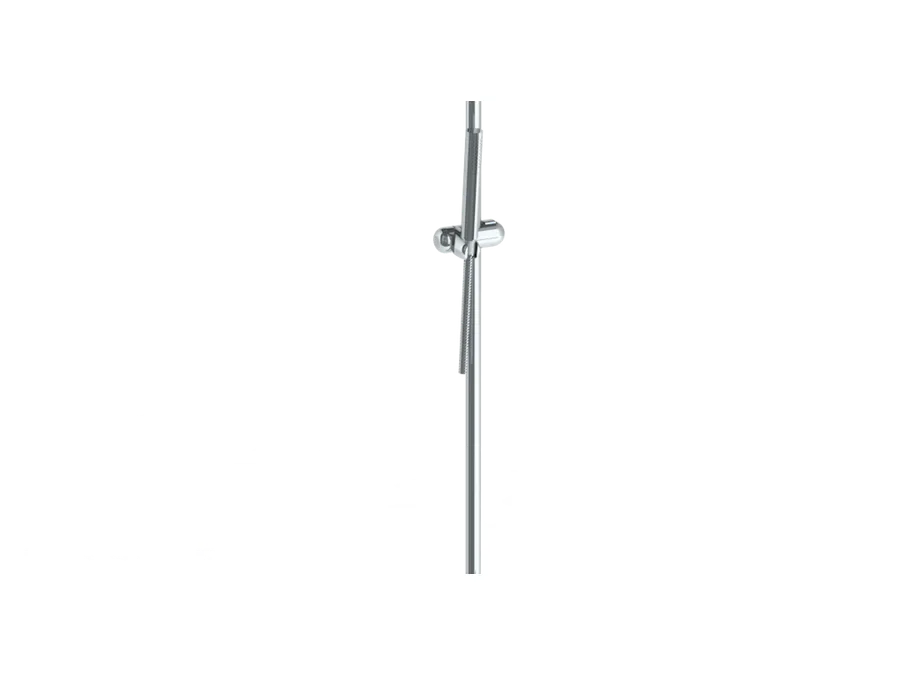
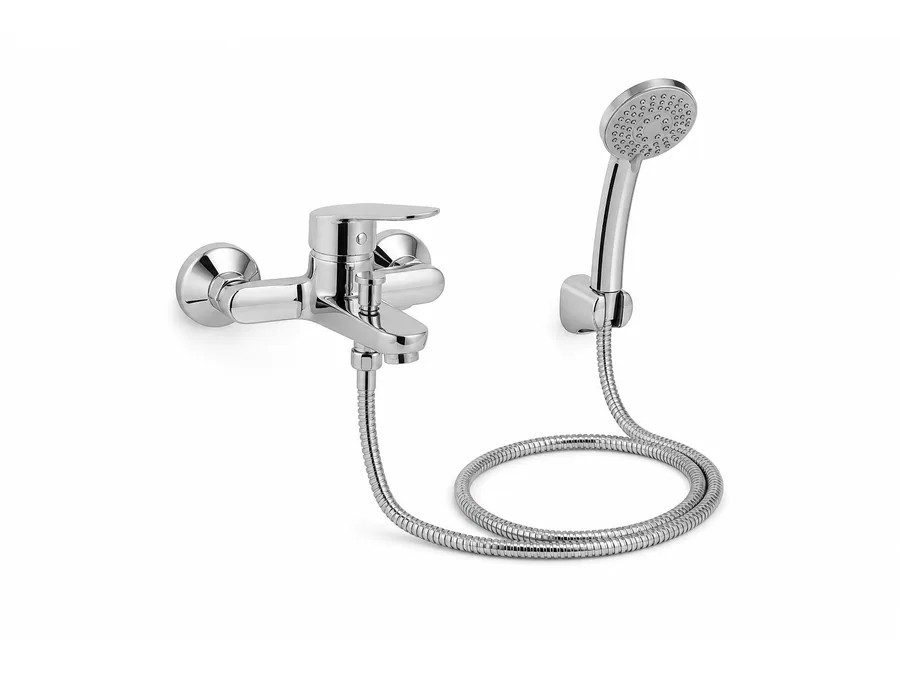
Stage 16C: Add priority product WebP images batch 1

Changed region(s): [[0.1867, 0.0933, 0.8089, 0.8711]]

diff --git a/src/data/products.js b/src/data/products.js
@@ -726,7 +726,7 @@ function getAliasesRu(data, titleRu, productTypeRu) {
 }
 
 function product(data) {
-  data = applyStage16BPhotoAuditFixes(applyStage16ALocalizationFixes(applyStage14CConstructionCompletionContent(applyStage14BFinishingDrywallContent(applyStage14AConstructionCoreContent(applyStage13GardenYardContent(applyStage12WarmFloorContent(applyStage11VentilationContent(applyStage10FastenerContent(applyStage9PaintWallpaperContent(applyStage8ToolContent(applyStage7SanitaryContent(applyStage6BElectricalContent(applyStage6AElectricalContent(applyStage5DEngineeringContent(applyStage5CEngineeringContent(applyStage5BEngineeringContent(applyStage5PprContent(applyStage4PlasterContent(data)))))))))))))))))))
+  data = applyStage16CBatch1Images(applyStage16BPhotoAuditFixes(applyStage16ALocalizationFixes(applyStage14CConstructionCompletionContent(applyStage14BFinishingDrywallContent(applyStage14AConstructionCoreContent(applyStage13GardenYardContent(applyStage12WarmFloorContent(applyStage11VentilationContent(applyStage10FastenerContent(applyStage9PaintWallpaperContent(applyStage8ToolContent(applyStage7SanitaryContent(applyStage6BElectricalContent(applyStage6AElectricalContent(applyStage5DEngineeringContent(applyStage5CEngineeringContent(applyStage5BEngineeringContent(applyStage5PprContent(applyStage4PlasterContent(data))))))))))))))))))))
   const badges = data.badges || []
   const titleKg = normalizeVisibleKg(data.titleKg)
   const normalizedData = {
@@ -11076,6 +11076,54 @@ function applyStage16BPhotoAuditFixes(data) {
         fallbackSrc: buildingProductPlaceholder,
         expectedSrc: `/images/products/${data.slug}/main.webp`,
         futureSrc: `/images/products/${data.slug}/main.webp`,
+      },
+    ],
+  }
+}
+
+const stage16CBatch1ImageSlugs = new Set([
+  'kanalizatsiya-truba-50mm',
+  'kanalizatsiya-truba-110mm',
+  'ashkana-smesiteli-basic',
+  'vanna-smesiteli-dush-komplekti',
+  'molotok-500g',
+  'samorez-gipsokarton-35x35',
+  'sugat-shlangy-34-25m',
+  'kurok-metall-saptuu',
+  'shurup-po-derevu-4x50mm',
+  'ventilyaciya-reshetkasy-150x150mm',
+  'ppr-klipsa-20',
+  'aerator-smesitelya-m24',
+  'podrozetnik-plastik',
+  'raspredkorobka-80',
+  'ventilyaciya-reshetkasy-200x200mm',
+  'pvc-ventilyaciya-kanaly-60x120',
+  'ventilyaciya-burchu-90',
+  'ventilyaciya-muftasy',
+  'obratnyi-klapan-ventilyaciya',
+  'uroven-60sm',
+])
+
+function applyStage16CBatch1Images(data) {
+  if (!stage16CBatch1ImageSlugs.has(data.slug)) return data
+
+  const src = `/images/products/${data.slug}/main.webp`
+  const fallbackSrc = getProductAssetEntry(data.slug)?.fallback || productPlaceholder
+
+  return {
+    ...data,
+    imageStatus: 'ready',
+    isPlaceholderImage: false,
+    images: [
+      {
+        src,
+        alt: `${data.titleKg} — StroyRayon товар сүрөтү`,
+        width: 900,
+        height: 675,
+        type: 'product',
+        fallbackSrc,
+        expectedSrc: src,
+        futureSrc: src,
       },
     ],
   }

diff --git a/reports/content-audit/stage16c-priority1-images-batch1.md b/reports/content-audit/stage16c-priority1-images-batch1.md
@@ -1,0 +1,95 @@
+# Stage 16C — Priority 1 Images, Batch 1
+
+Date: 2026-06-18
+
+Stage 16B baseline commit: `cc220b086a30adcf309c671097f2117f3d5b84ed`
+
+## Scope
+
+- Priority 1 products before this batch: **80**
+- Products selected for batch review: **22**
+- Products receiving production-safe WebP: **20**
+- Products left on placeholder: **2**
+- Priority 1 products remaining after batch: **60**
+- New files use `public/images/products/<product-slug>/main.webp`.
+- Only main images were added; galleries were not expanded.
+
+The images were created with the built-in image generation tool as neutral, unbranded product renders. Every accepted render was visually reviewed for product type, requested size/form, crop, watermark, foreign branding and distracting text.
+
+## Accepted WebP images
+
+| slug | title KG / RU | category | previous imageStatus | new image path | source type | exact match | note |
+|---|---|---|---|---|---|---|---|
+| `kanalizatsiya-truba-50mm` | Канализация түтүгү 50 мм / Канализационная труба DrainLine 50 мм | Инженердик сантехника | needs-real-photo | `public/images/products/kanalizatsiya-truba-50mm/main.webp` | neutral render | yes | Gray indoor sewer pipe with socket and seal; exact 50 mm product type, no visible conflicting brand. |
+| `kanalizatsiya-truba-110mm` | Канализация түтүгү 110 мм / Канализационная труба DrainLine 110 мм | Инженердик сантехника | needs-real-photo | `public/images/products/kanalizatsiya-truba-110mm/main.webp` | neutral render | yes | Larger 110 mm gray socket pipe with rubber sealing ring. |
+| `ashkana-smesiteli-basic` | Ашкана смесители Basic / Смеситель для кухни Basic AquaLine | Сантехника | needs-real-photo | `public/images/products/ashkana-smesiteli-basic/main.webp` | neutral render | yes | Basic chrome single-lever kitchen mixer; unbranded and model-neutral. |
+| `vanna-smesiteli-dush-komplekti` | Ванна смесители душ комплекти менен / Смеситель для ванны с душевым комплектом AquaLine | Сантехника | needs-real-photo | `public/images/products/vanna-smesiteli-dush-komplekti/main.webp` | neutral render | yes | Wall-mounted chrome bath mixer with hose and handheld shower set. |
+| `molotok-500g` | Молоток 500 г / Молоток 500 г MasterHand | Инструмент | needs-real-photo | `public/images/products/molotok-500g/main.webp` | neutral render | yes | Standard 500 g claw hammer form; no brand or packaging claims. |
+| `samorez-gipsokarton-35x35` | Саморез гипсокартон үчүн 3.5x35 / Саморез для гипсокартона 3.5x35 | Крепеж | needs-real-photo | `public/images/products/samorez-gipsokarton-35x35/main.webp` | neutral render | yes | Black phosphate drywall screws with bugle head and coarse thread. |
+| `sugat-shlangy-34-25m` | Сугат шлангы 3/4", 25 м / Поливочный шланг 3/4", 25 м | Бак жана короо | needs-real-photo | `public/images/products/sugat-shlangy-34-25m/main.webp` | neutral render | yes | Reinforced green 3/4-inch hose shown as a 25 m coil. |
+| `kurok-metall-saptuu` | Күрөк металл саптуу / Лопата с металлическим черенком | Бак жана короо | needs-real-photo | `public/images/products/kurok-metall-saptuu/main.webp` | neutral render | yes | Pointed steel shovel with long metal shaft and D-grip. |
+| `shurup-po-derevu-4x50mm` | Жыгач үчүн шуруп 4x50 мм / Шуруп по дереву 4x50 мм | Крепеж | needs-real-photo | `public/images/products/shurup-po-derevu-4x50mm/main.webp` | neutral render | yes | Zinc-plated countersunk wood screws with coarse thread. |
+| `ventilyaciya-reshetkasy-150x150mm` | Вентиляция торчосу 150x150 мм / Вентиляционная решетка 150x150 мм | Вентиляция | needs-real-photo | `public/images/products/ventilyaciya-reshetkasy-150x150mm/main.webp` | neutral render | yes | White square 150x150 mm fixed-louver grille. |
+| `ppr-klipsa-20` | ППР клипса 20 мм / ППР клипса FixPro 20 мм | Инженердик сантехника | planned | `public/images/products/ppr-klipsa-20/main.webp` | neutral render | yes | White single PPR mounting clip for 20 mm pipe. |
+| `aerator-smesitelya-m24` | Аэратор смесителя M24 / Аэратор смесителя M24 AquaLine | Сантехника | needs-real-photo | `public/images/products/aerator-smesitelya-m24/main.webp` | neutral render | yes | Chrome male-thread M24 aerator with visible mesh outlet. |
+| `podrozetnik-plastik` | Пластик подрозетник / Пластиковый подрозетник ElectroSafe | Электрика | needs-real-photo | `public/images/products/podrozetnik-plastik/main.webp` | neutral render | yes | Orange round flush-mount electrical box with cable knockouts. |
+| `raspredkorobka-80` | Таратуу коробкасы 80 мм / Распределительная коробка 80 мм ElectroSafe | Электрика | needs-real-photo | `public/images/products/raspredkorobka-80/main.webp` | neutral render | yes | White round 80 mm junction box with lid and knockouts. |
+| `ventilyaciya-reshetkasy-200x200mm` | Вентиляция торчосу 200x200 мм / Вентиляционная решетка 200x200 мм | Вентиляция | needs-real-photo | `public/images/products/ventilyaciya-reshetkasy-200x200mm/main.webp` | neutral render | yes | White square 200x200 mm fixed-louver grille. |
+| `pvc-ventilyaciya-kanaly-60x120` | PVC вентиляция каналы 60x120 мм / PVC вентиляционный канал 60x120 мм | Вентиляция | needs-real-photo | `public/images/products/pvc-ventilyaciya-kanaly-60x120/main.webp` | neutral render | yes | Straight white rigid PVC channel with 60x120 mm rectangular section. |
+| `ventilyaciya-burchu-90` | Вентиляция бурчу 90 градус / Вентиляционный угол 90 градусов | Вентиляция | needs-real-photo | `public/images/products/ventilyaciya-burchu-90/main.webp` | neutral render | yes | White rectangular rigid-duct 90-degree elbow. |
+| `ventilyaciya-muftasy` | Вентиляция муфтасы / Вентиляционная муфта | Вентиляция | needs-real-photo | `public/images/products/ventilyaciya-muftasy/main.webp` | neutral render | yes | White rectangular duct coupling with two open ends. |
+| `obratnyi-klapan-ventilyaciya` | Вентиляция үчүн кайтарма клапан / Обратный клапан для вентиляции | Вентиляция | needs-real-photo | `public/images/products/obratnyi-klapan-ventilyaciya/main.webp` | neutral render | yes | Rectangular duct check valve with a visible one-way internal flap. |
+| `uroven-60sm` | Уровень 60 см / Уровень 60 см MeasurePro | Инструмент | needs-real-photo | `public/images/products/uroven-60sm/main.webp` | neutral render | yes | 60 cm aluminum spirit level with three vials and no visible brand. |
+
+All accepted files are **900x675 WebP**, optimized for catalog cards and product pages on a clean white background.
+
+## Products kept on placeholder
+
+| slug | title | reason |
+|---|---|---|
+| `drel-650w-udarnyi` | Дрель 650W с ударным режимом ToolPro | A neutral drill render cannot verify the catalog brand/model and exact 650 W specification. |
+| `portlandcement-m500-50kg` | Портландцемент М500, 50 кг | An exact Kant Cement M500 50 kg package was not available; generic packaging would repeat the Stage 16B mismatch risk. |
+
+Rejected due to possible mismatch: **2**.
+
+## Mapping and status
+
+- The 20 accepted products now use `imageStatus: ready`.
+- Their `isPlaceholderImage` value is false.
+- Existing fallback paths remain in place.
+- No new status value was introduced; `ready` was already supported by the product normalization logic.
+- No unrelated product mapping was changed.
+
+## Image safety result
+
+- Foreign marketplace logos: **0**
+- Watermarks: **0**
+- Competitor store branding: **0**
+- Hard crops: **0**
+- Broken new image paths: **0**
+- Doubtful generated images accepted: **0**
+
+## Prompt pattern
+
+Built-in image generation used one product-specific prompt per asset with this common pattern:
+
+> Production-quality neutral ecommerce product render, exact product type and requested dimensions/form, seamless white studio background, full product visible with generous padding, soft even lighting, no brand, no logo, no labels, no text, no watermark, no packaging and no extra objects.
+
+Each prompt additionally specified the distinguishing geometry, such as 50/110 mm pipe diameter, 150/200 mm grille size, M24 thread, 20 mm PPR clip or 60x120 mm rectangular duct section.
+
+## Verification
+
+- All **20/20** WebP files exist at the mapped product-slug paths.
+- All **20/20** files have a valid WebP/VP8 signature and physical dimensions of **900x675**.
+- All **20/20** product mappings resolve to the matching slug path, use `imageStatus: ready`, set `isPlaceholderImage: false`, and retain an existing fallback asset.
+- Visual review confirmed no watermark, marketplace mark, competitor logo, visible conflicting brand/model/size, hard crop or unrelated product.
+- `drel-650w-udarnyi` and `portlandcement-m500-50kg` remain on placeholders with `imageStatus: needs-real-photo`.
+- `npm.cmd run validate:catalog` — **passed**, 0 warnings.
+- `npm.cmd run generate:sitemap` — **passed**, 343 URLs, 0 warnings.
+- `npm.cmd run lint` — **passed**.
+- `npm.cmd run build` — **passed**; the existing non-blocking large-chunk warning remains.
+- `git diff --check` — **passed**.
+
+## Stage 16D
+
+Stage 16D batch 2 can cover the remaining **60 Priority 1** products. It should prioritize exact manufacturer/supplier-approved packshots for cement, plaster, branded electrical protection, cable, power tools and paint. Those items should remain placeholders until exact branding, rating, package weight and usage rights are confirmed.